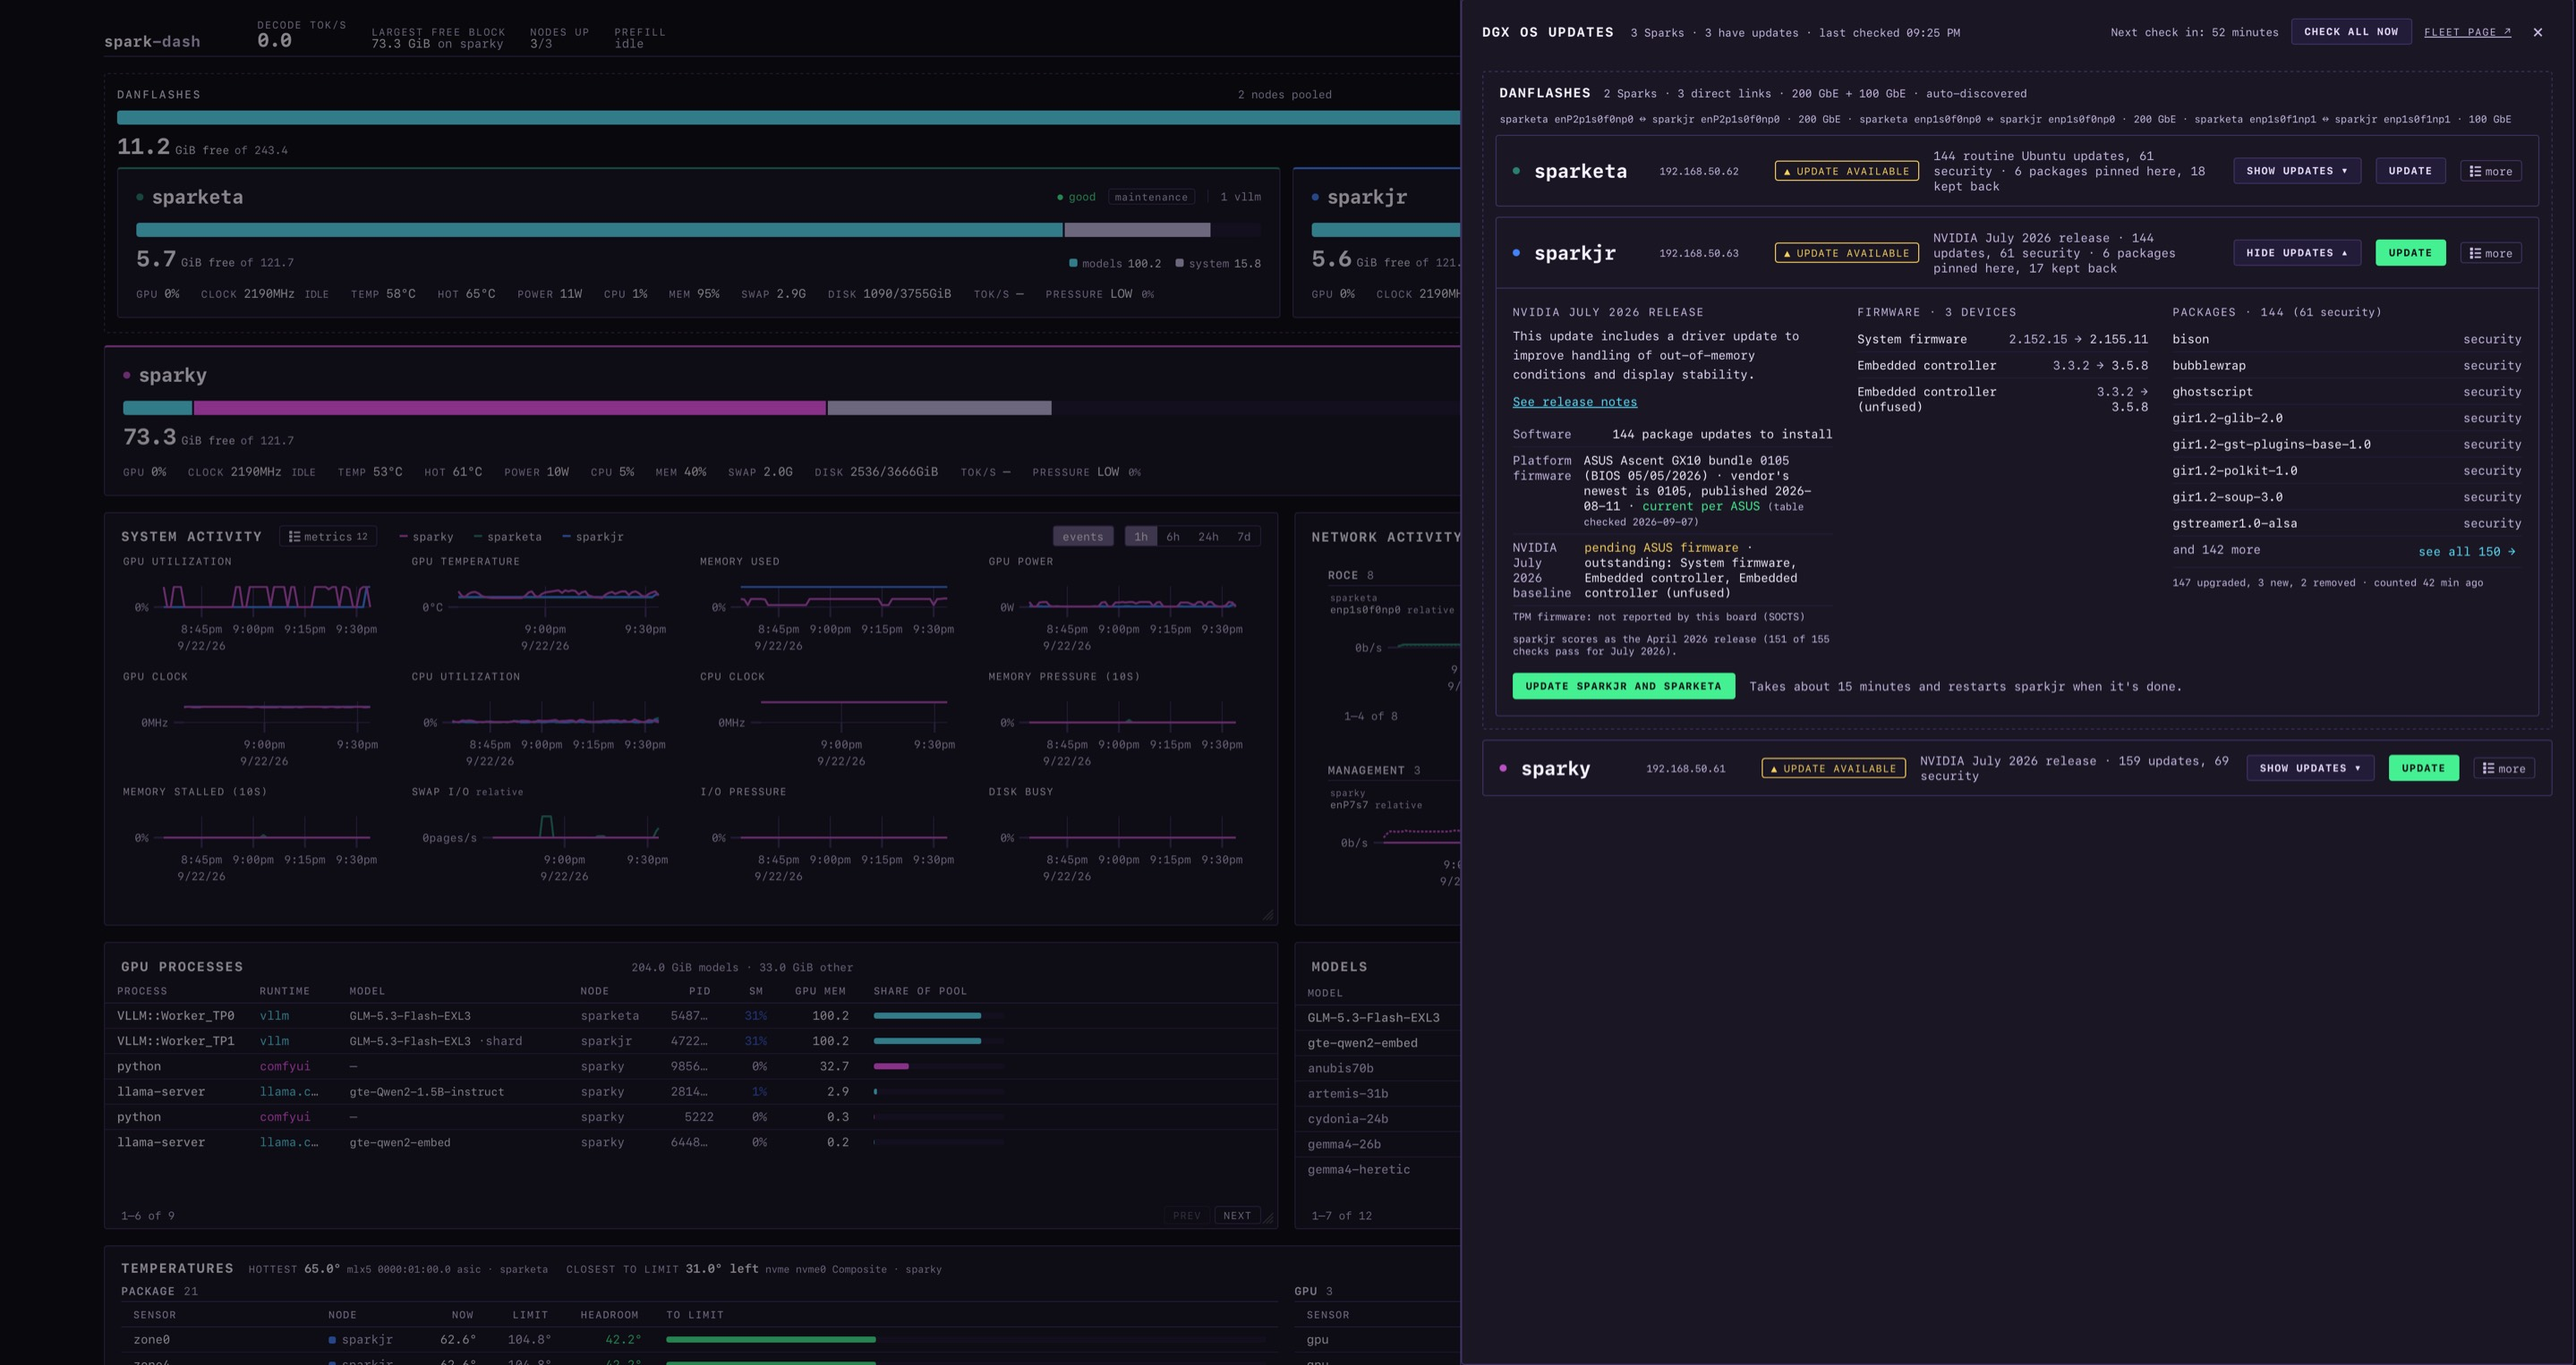
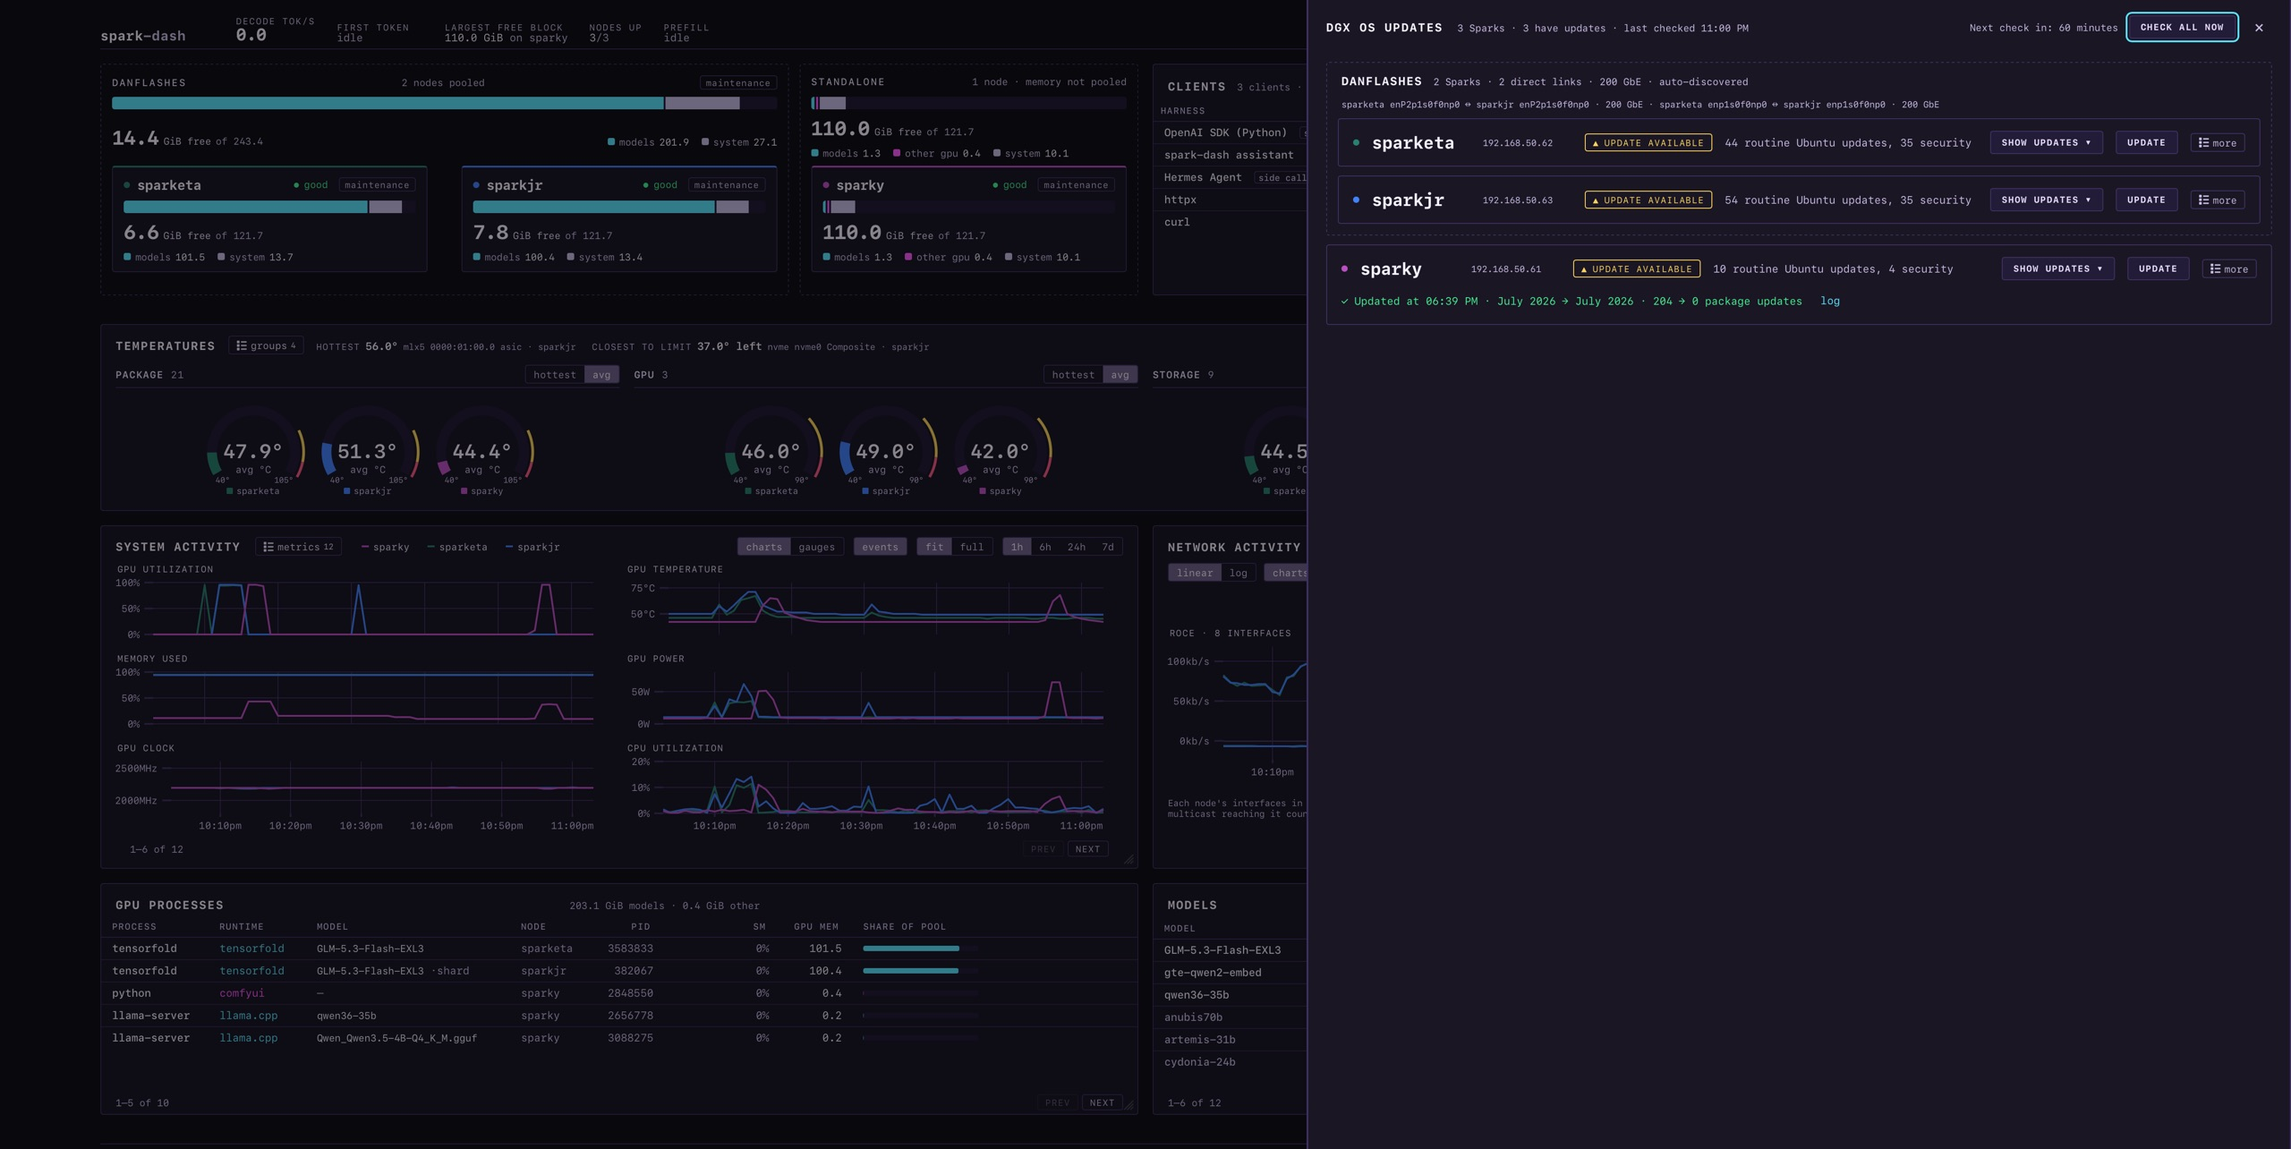
README: new key image and update manager image
Both from 2026-10-16, at 2000 and 2560 pixels wide, JPEG quality 78. The
key image shows Temperatures as gauges.

Claude-Session: https://claude.ai/code/session_01Y6ZW58VVbXzATkbvtzkrg2

diff --git a/README.md b/README.md
@@ -6,13 +6,13 @@ running on them (llama.cpp router, vLLM, SGLang, TensorFold).
 
 Works with one node or many.
 
-![The spark-dash dashboard in compact view: a pooled two-node cluster and a standalone node in their own frames, ending level with the Clients card beside them, which lists seven callers with their requests and tokens; an ask button in the header; System Activity charting a metric per chart and a line per node; Network Activity charting RoCE and management traffic with each node's received traffic above the line and sent below; the GPU process and model tables; and two Temperatures cards, each showing different sensor groups](Screenshot.jpg)
+![The spark-dash dashboard in compact view: a pooled two-node cluster and a standalone node in their own frames, beside the Clients card listing five callers with their requests and tokens; Temperatures as gauges, a dial per node for the package zones, GPU and storage averaged and the network chips at their hottest, each dial marked where it would turn amber and red; System Activity charting a metric per chart and a line per node; Network Activity charting RoCE and management traffic, received above the line and sent below; and the GPU process and model tables](Screenshot.jpg)
 
 Three GB10s: two pooled into a tensor-parallel cluster, one standalone. Every
 threshold is measured for this hardware, not guessed, and the layout is
 [yours to arrange](#the-page-is-yours).
 
-![DGX OS updates open over the dashboard: three Sparks listed with their release and update counts, sparkjr expanded to show what the July 2026 release changes, the firmware each device would move to, and the package list with security updates marked](Screenshot-dgx-os-updates.jpg)
+![DGX OS updates open over the dashboard: the pooled pair sparketa and sparkjr shown together with the two 200 GbE links between them, each with routine and security Ubuntu updates waiting, and the standalone sparky with its own updates and the record of its last one, the July 2026 release with 204 package updates applied](Screenshot-dgx-os-updates.jpg)](Screenshot-dgx-os-updates.jpg)
 
 [DGX OS updates](#5-optional-dgx-os-updates) on the same three machines, with
 `sparkjr` expanded to show what the release would change.
